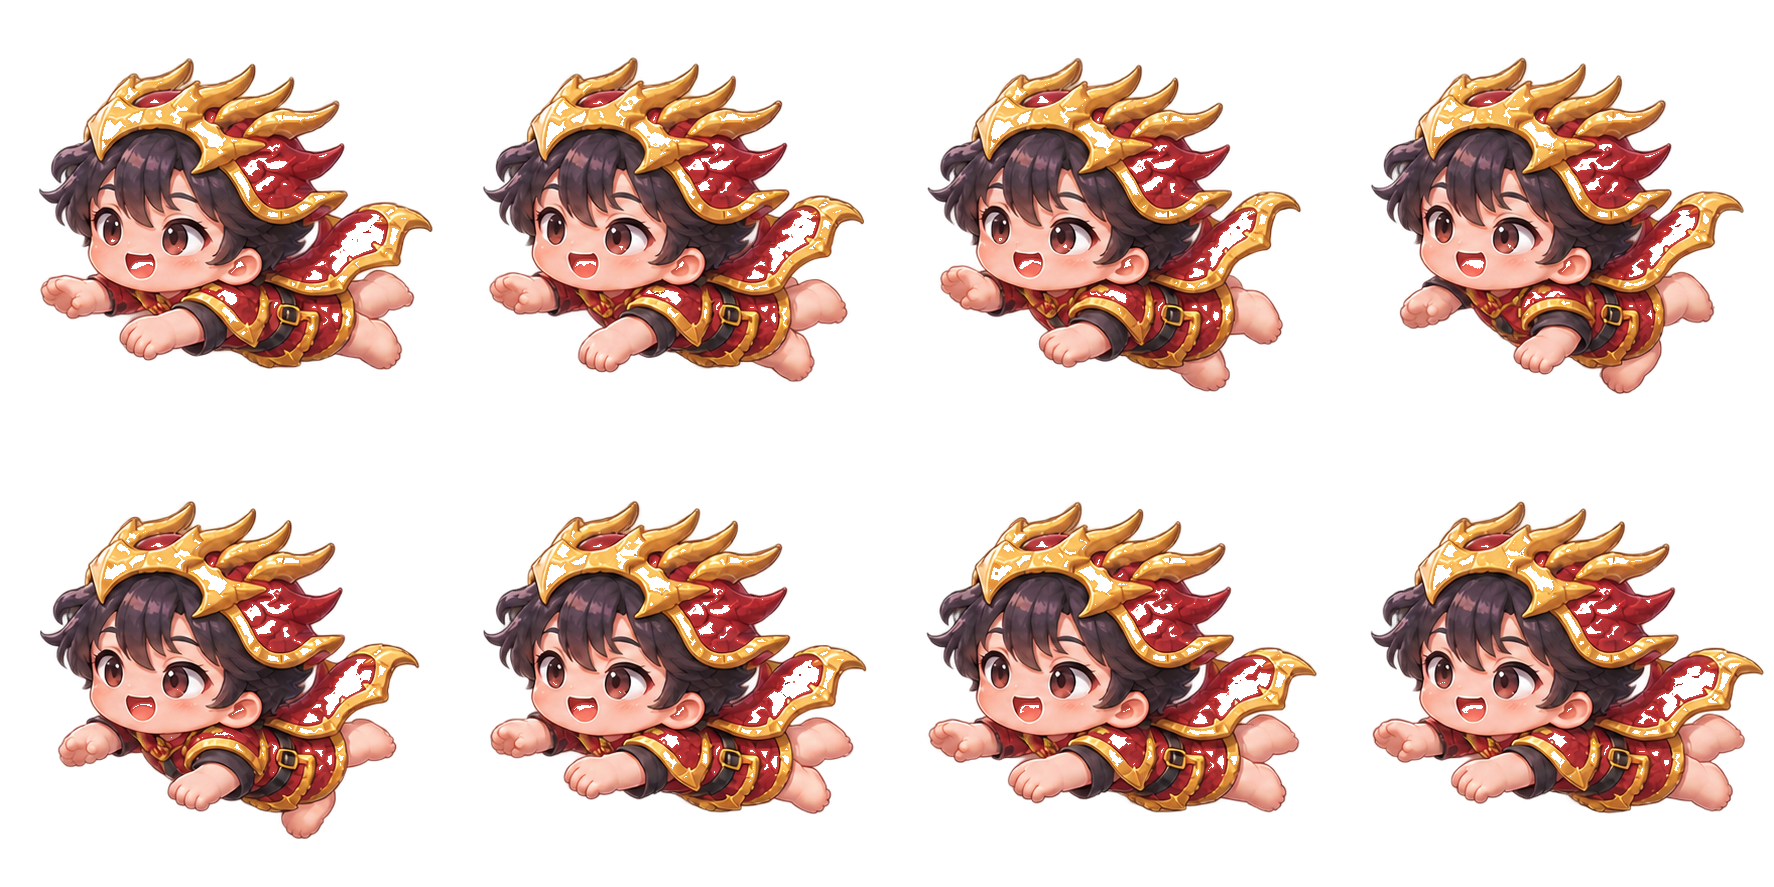
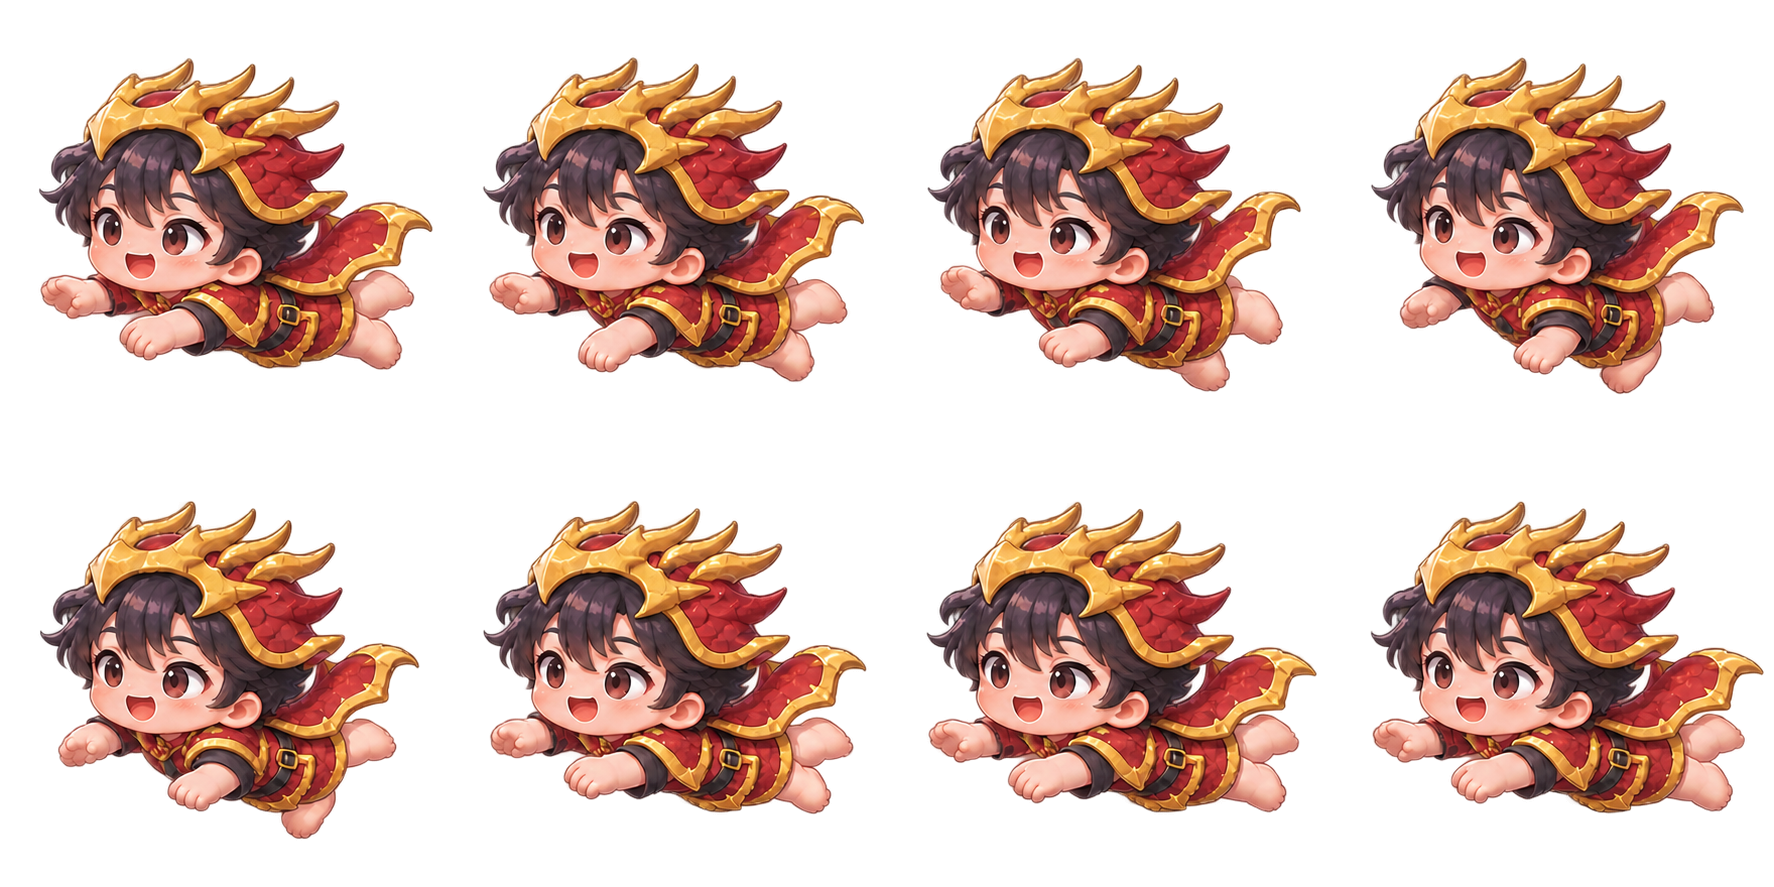
Raise 15 new male swimmers to 125%, preserve mechanic and astronaut, repair dragon knight alpha

diff --git a/human-fishing/human-sprites.js b/human-fishing/human-sprites.js
@@ -52,7 +52,8 @@ if(enabled){
   var variant=swimVariantById[id],img=new Image(); // Boot preloads this resource.
   img.decoding='async';
   img.src=maleSwimBoyById[id]?
-   './assets/humans/male-concepts/baby_swim_boy_'+maleSwimBoyById[id]+'_8f.png?v=20261112-male17-swim-v1':
+   './assets/humans/male-concepts/baby_swim_boy_'+maleSwimBoyById[id]+'_8f.png?v='+
+   (maleSwimBoyById[id]==='dragon_knight'?'20261112-dragon-alpha-repair-v2':'20261112-male17-swim-v1'):
    './assets/humans/baby_swim_'+variant+'_8f.png?v='+(Number(id)===36?'20261112-shark-original-v6':Number(id)>=35?'20261112-sisters-boundary-v4':Number(id)>=24?'20261111-human-swim11-alpha-v4':'20261111-human-swim4-v1');
   swimVariants[id]=img;
  });
@@ -240,9 +241,13 @@ function sisterWorldScale(id){
 // Only the 17 newly installed male swimming designs receive this world-space
 // readability adjustment. Preserve their original PNG bytes and 8-frame atlas.
 // IDs 0, 1, 5, 8, 17, 18, 22 and all girls/sisters remain unchanged.
-var NEW_MALE_SWIM_WORLD_SCALE=1.12;
+var NEW_MALE_SWIM_WORLD_SCALE=1.25;
+var NEW_MALE_FIXED_WORLD_SCALE=1.12;
 function maleBabyNewScale(id){
- return maleSwimBoyById[String(Number(id))]?NEW_MALE_SWIM_WORLD_SCALE:1;
+ var concept=maleSwimBoyById[String(Number(id))];
+ if(!concept)return 1;
+ // The engineer and astronaut already match the older baby's face scale.
+ return concept==='engineer'||concept==='astronaut'?NEW_MALE_FIXED_WORLD_SCALE:NEW_MALE_SWIM_WORLD_SCALE;
 }
 function poseGeometry(actor){
  var id=Number(actor&&actor.id),size=Math.max(.7,Math.min(1.8,Number(actor&&actor.size)||1));

diff --git a/human-fishing/index.html b/human-fishing/index.html
@@ -451,7 +451,7 @@ font:800 11px/1.2 system-ui,sans-serif;letter-spacing:.4px}
 <script src="./assets/humans/ready.js?v=20261110-baby-v1"></script>
 <script src="./assets/humans/sisters-ready.js?v=20261112-sisters-v1"></script>
 <script src="./assets/humans/male-concepts/ready.js?v=20261112-male17-swim-v1"></script>
-<script src="./human-sprites.js?v=20261112-male17-world112-v2"></script>
+<script src="./human-sprites.js?v=20261112-male17-world125-v3"></script>
 <script src="./gamepad.js?v=20261110-g8plus-haptics-v2"></script>
 <script src="./foley.js?v=20261111-capture-gun-recordings-v1"></script>
 <script src="./ambient.js?v=20261110-ambient-preload-v3"></script>
